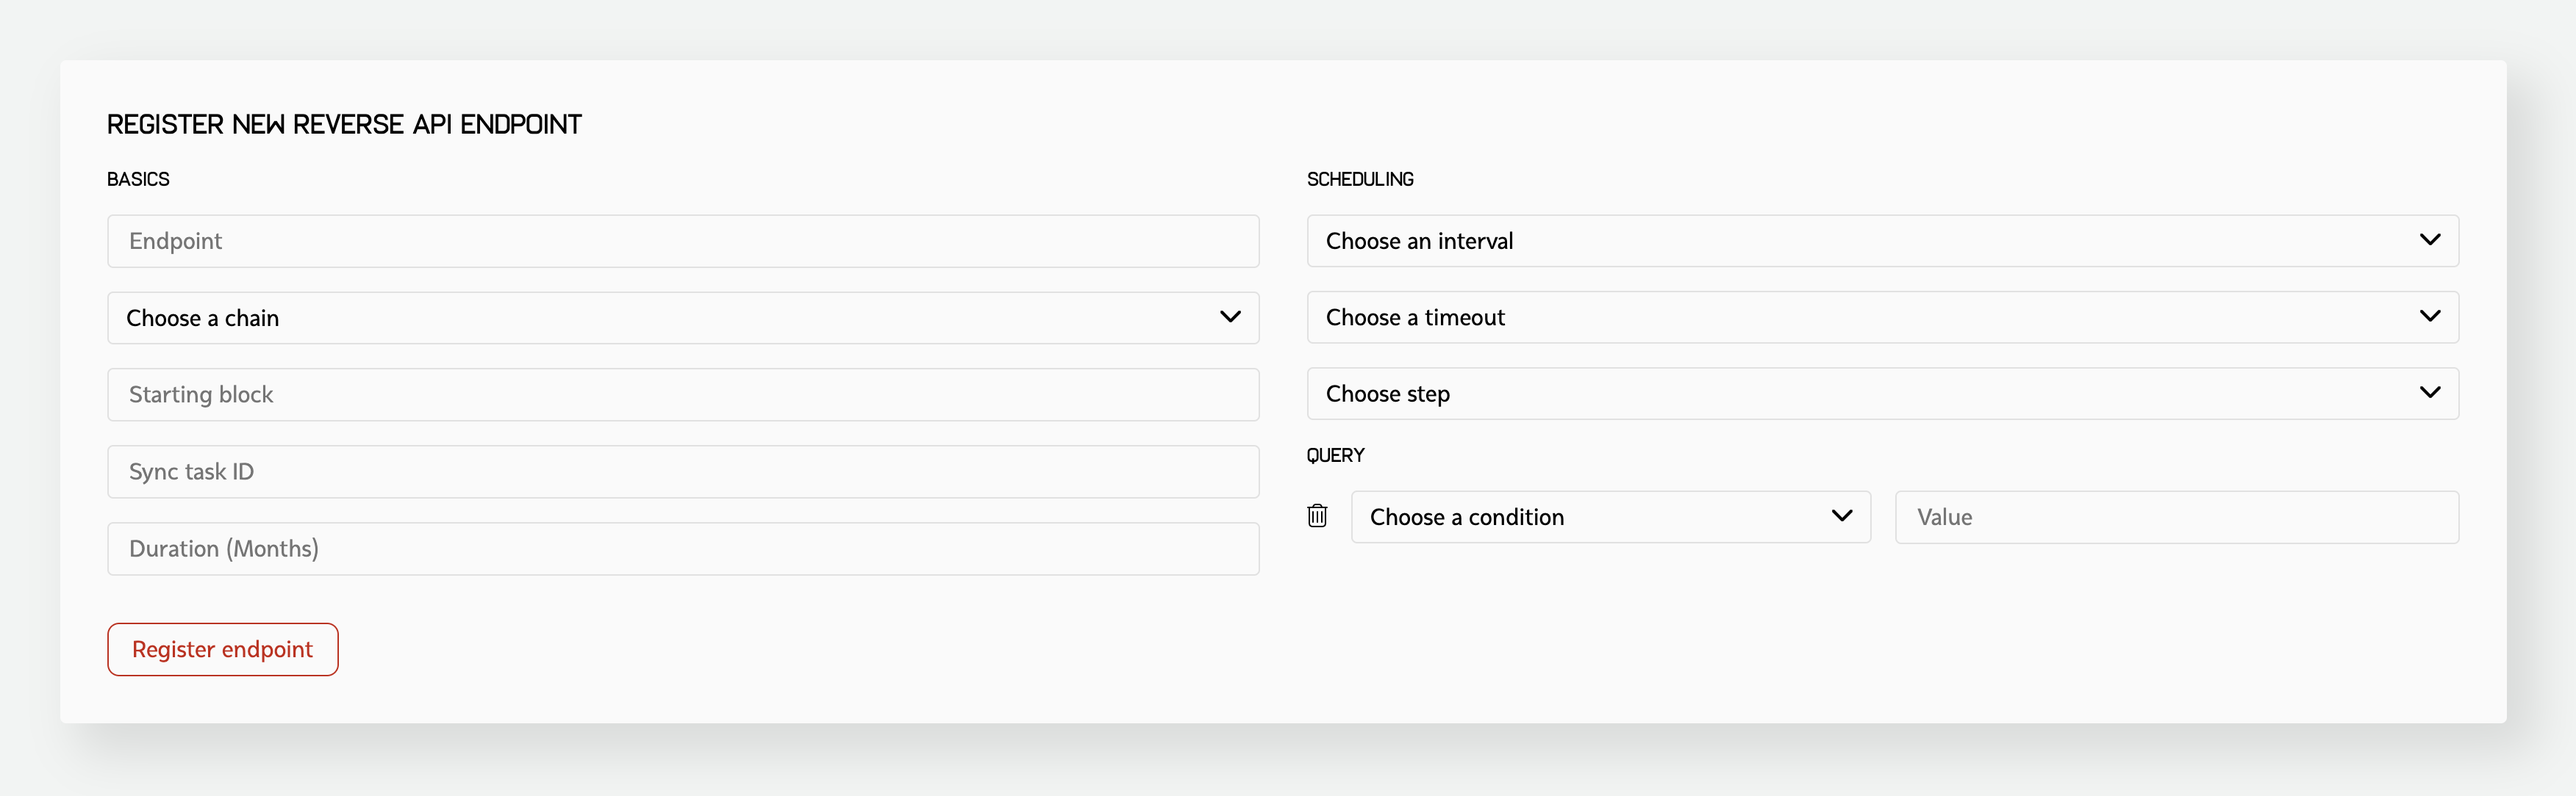
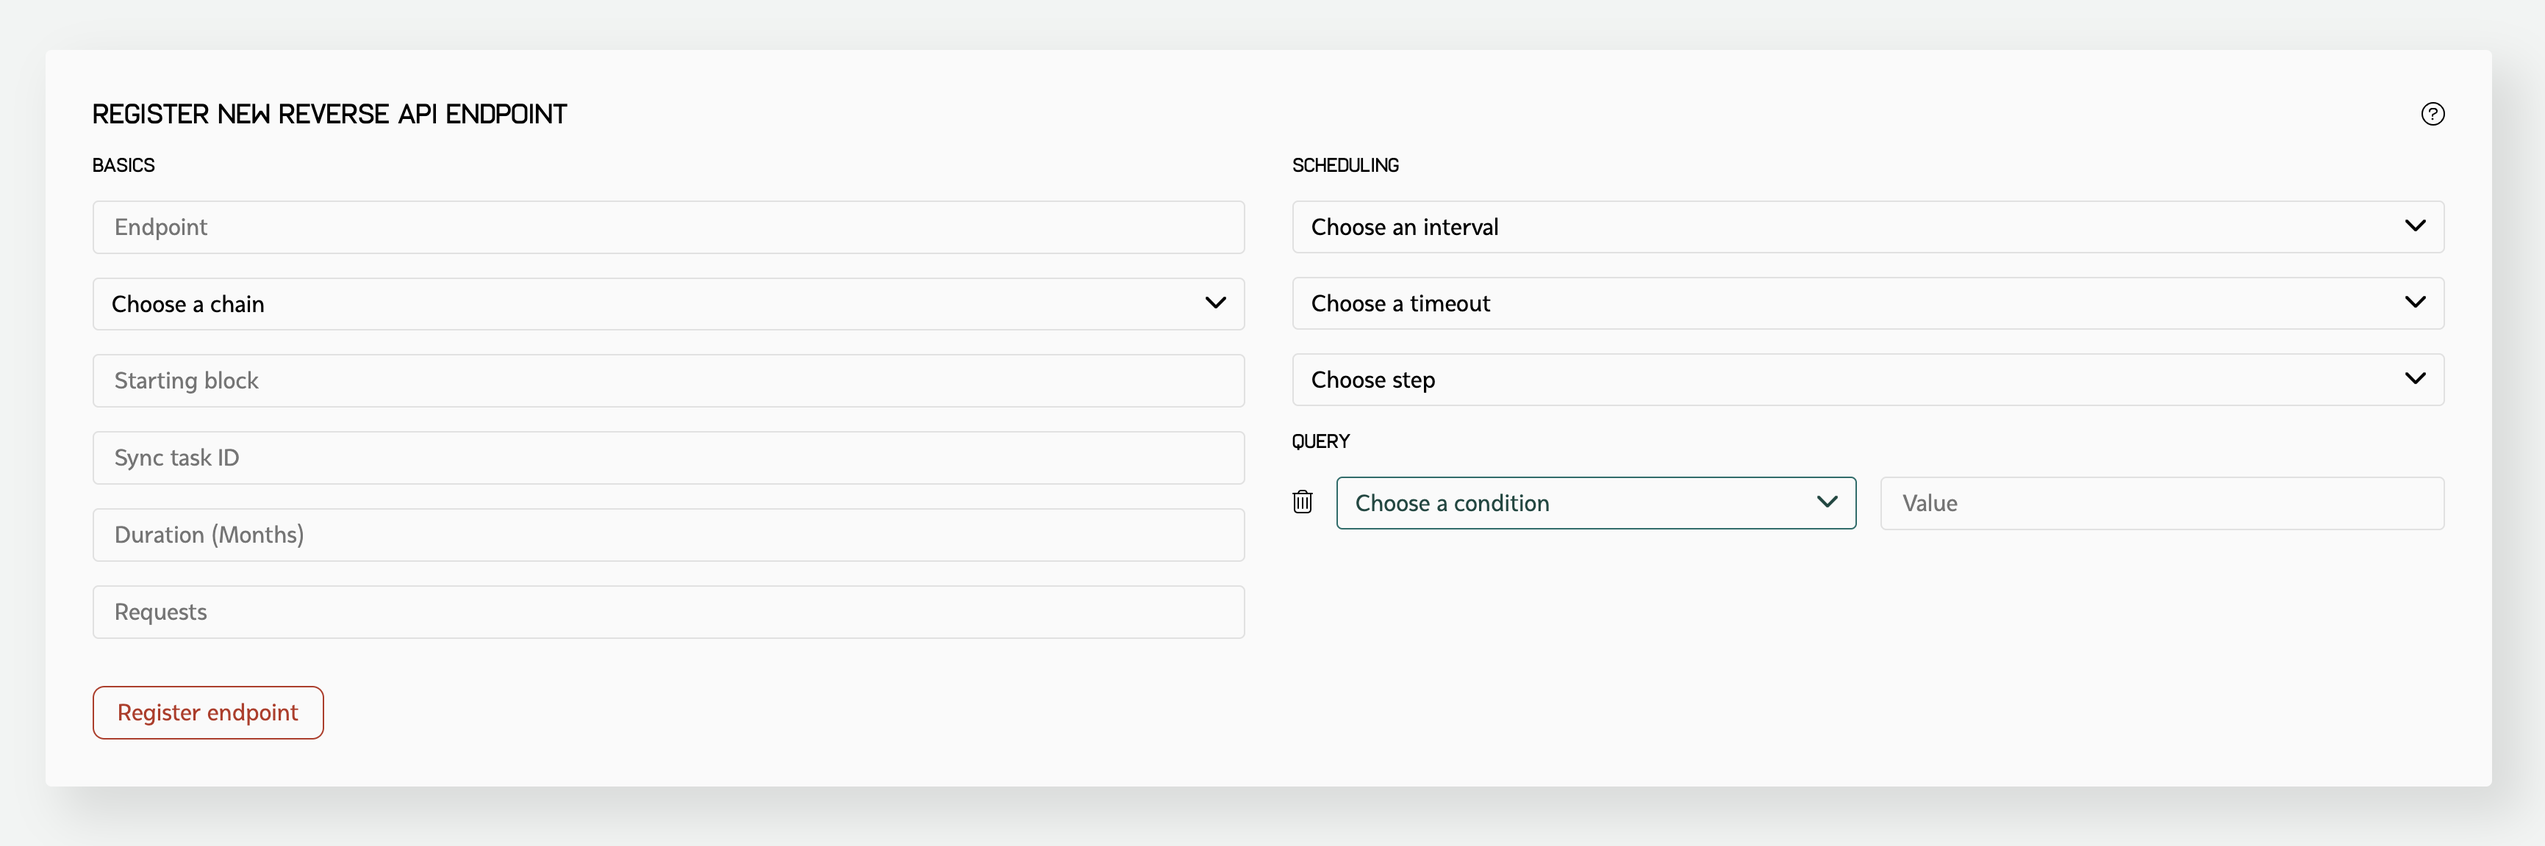
Update R-API documentation for v1.1

diff --git a/source/services/deep-index/webhook/getting-started.rst b/source/services/deep-index/webhook/getting-started.rst
@@ -28,34 +28,37 @@ You can use the following list as a guide for each of the fields in this form.
    the Kenshi blockchain data clusters. This field cannot be modified later.
 
 3. **Starting block**: From which block should we start informing you of the events? You can choose a
-   block number in past if you're looking for historical data. This field cannot be modified later.
+   block number in the past if you're looking for historical data. This field cannot be modified later.
 
-4. **Sync task ID**: A Sync task ID is needed in order to determine the last synced block matching the
+4. **Sync task ID**: A Sync task ID is needed to determine the last synced block matching the
    query of your Reverse-API task.
    
 5. **Duration**: For how many months should this task run?
+   
+6. **Requests**: Amount of request credits you need for this endpoint. Each time a request is made to
+   your endpoint one request credit is charged.
 
-6. **Interval**: The interval at which the Kenshi event dispatcher should run and look for new events.
+8. **Interval**: The interval at which the Kenshi event dispatcher should run and look for new events.
    The lower the interval is the quicker new events will arrive at your endpoint.
 
-7. **Timeout**: Choose a timeout for both the Dispatcher. This includes both the time to lookup for new
+9. **Timeout**: Choose a timeout for both the Dispatcher. This includes both the time to lookup for new
    data, and the time it takes to deliver the results to your Reverse-API endpoint. If your endpoint takes
    too much time processing the received events, you'll then need to set a big timeout. This value cannot
    be changed later.
 
-8. **Step**: How many blocks at a time should this task process at each run? This needs to be adjusted
-   depending on the **Interval**, for example the block time on the Fantom chain is about 1 second, so
+10. **Step**: How many blocks at a time should this task process at each run? This needs to be adjusted
+   depending on the **Interval**, for example, the block time on the Fantom chain is about 1 second, so
    in 10 seconds there will be 10 new blocks. That means if your task is running every 10 seconds and
    processing 6 blocks at a time it won't be able to catch up to the new data fast enough. This value
    cannot be changed after the task is created.
 
-9. **Query**: Define a query for this Reverese-API. Here you need to add contract address, event signature,
-   event name or any other required info for querying the events from the Kenshi blockchain data clusters.
+11. **Query**: Define a query for this Reverse-API. Here you need to add contract addresses, event signatures,
+   event names or any other required info for querying the events from the Kenshi blockchain data clusters.
    The Kenshi event Dispatcher uses this query against the data cluster on each run, then sends every matched
-   record to your Reverese-API endpoint in a separate request.
+   record to your Reverse-API endpoint in a separate request.
 
 .. note::
-   Hex values should not be checksumed. All values for the query should be in lowercase.
+   Hex values should not be checksummed. All values for the query should be in lowercase.
 
 .. note::
   The Kenshi event dispatcher for Reverse-API caches all events in a ``memcached`` instance to

diff --git a/source/services/deep-index/webhook/introduction.rst b/source/services/deep-index/webhook/introduction.rst
@@ -5,12 +5,12 @@ Instead of querying the blockchain or the Kenshi GraphQL endpoint, you can get t
 events delivered to your application instead. This allows creating a completely serverless
 flow of receiving and processing the blockchain data.
 
-The Kenshi Reverese-API service allows you to define a query, a starting block and an API
+The Kenshi Reverse-API service allows you to define a query, a starting block and an API
 endpoint (your HTTP[S] endpoint, AWS Lambda function...), then every time your query matches
-a record the Reverese-API service sends it to your endpoint.
+a record the Reverse-API service sends it to your endpoint.
 
 To use this service head to the Kenshi dashboard_, connect your wallet and register an endpoint using
-the new Reverese-API form. Continue reading on to get help with the dashboard or see examples of
-the Reverese-API service.
+the new Reverse-API form. Continue reading on to get help with the dashboard or see examples of
+the Reverse-API service.
 
 .. _dashboard: https://kenshi.io/dashboard
